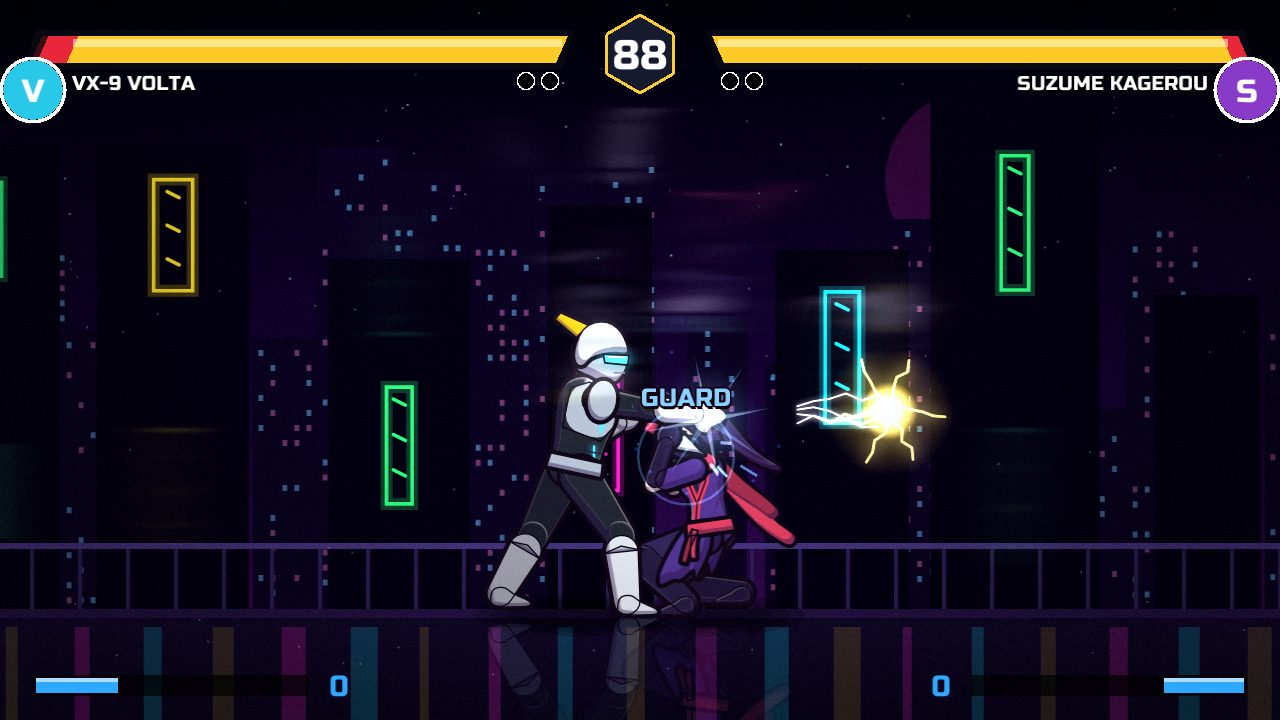
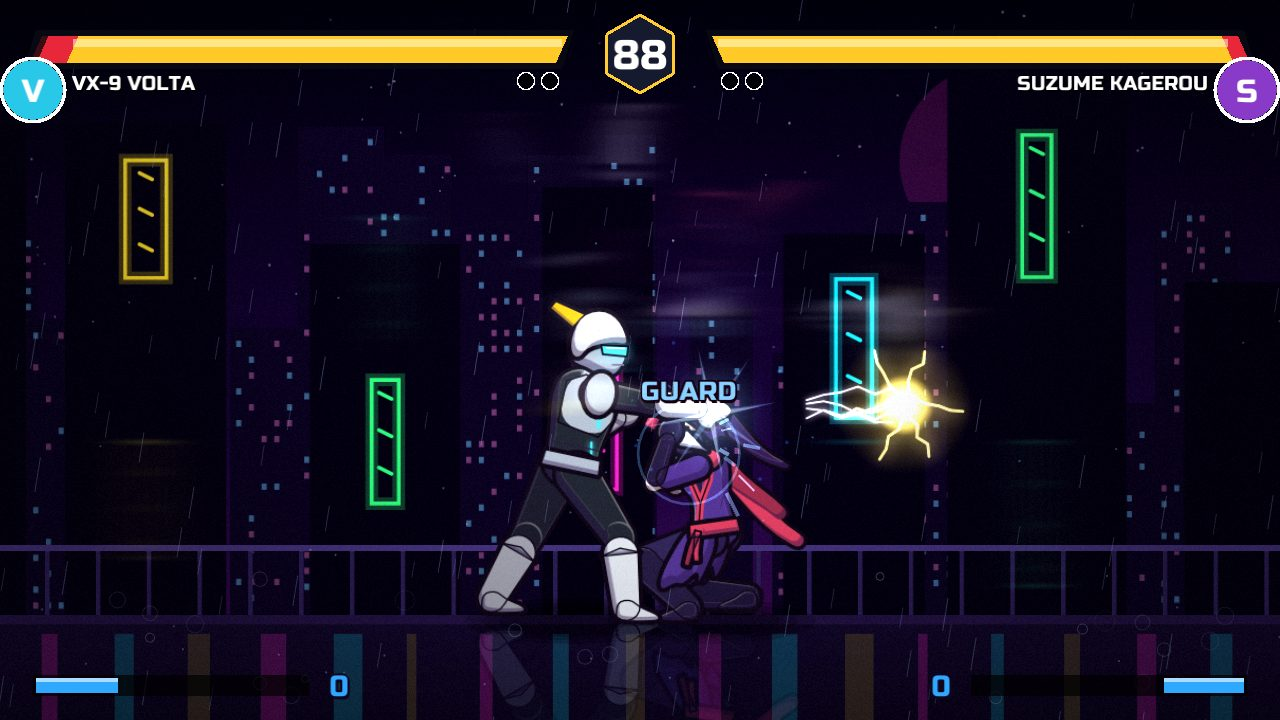
More AAA effects from research: SF6 paint splashes, dynamic impact lighting, anime impact frames, slash lines, distance zoom, per-stage weather, super outline glow
- Splat (colour paint behind the attacker), Light (stage lit by hits), Slash lines, impact-frame inversion in the composite shader
- Dynamic zoom by fighter distance; rain/fireflies/wisps/wind per stage; golden outline on super owner
- docs/AAA_FEATURES.md: sources and research-to-implementation mapping; new screenshots

Claude-Session: https://claude.ai/code/session_01Cn6JQNuQujDi45zt7ta1gL

diff --git a/src/vfx.rs b/src/vfx.rs
@@ -7,9 +7,21 @@ use macroquad::prelude::*;
 use ume_engine::matchs::{Event, Match};
 
 #[derive(Clone, Copy, PartialEq)]
-enum Kind { Spark, Glow, Dust, Debris, Ember }
+enum Kind { Spark, Glow, Dust, Debris, Ember, Slash }
 struct P { k: Kind, x: f32, y: f32, vx: f32, vy: f32, g: f32, life: f32, max: f32, size: f32, col: [f32; 3], rot: f32, vrot: f32 }
 struct Ring { x: f32, y: f32, r0: f32, r1: f32, t: f32, dur: f32, w: f32, col: [f32; 3] }
+/// SF6-style colour paint splash: irregular blob + droplets, spawned *behind the attacker* so the source of the hit reads clearly.
+struct Splat { x: f32, y: f32, dir: f32, t: f32, dur: f32, col: [f32; 3], radii: [f32; 14], drops: [(f32, f32, f32); 7], size: f32 }
+/// Dynamic stage lighting from impacts (Tekken 8: hit effects "light up the stage like fireworks").
+struct Light { x: f32, y: f32, r: f32, t: f32, dur: f32, col: [f32; 3] }
+#[derive(Clone, Copy, PartialEq, Default)]
+pub enum Weather { #[default] None, Rain, Fireflies, Wisps, Wind }
+impl Weather {
+    pub fn for_stage(name: &str) -> Weather {
+        let n = name.to_lowercase();
+        if n.contains("neo-metr") || n.contains("neon") { Weather::Rain } else if n.contains("bambu") { Weather::Fireflies } else if n.contains("espírit") || n.contains("espirit") { Weather::Wisps } else if n.contains("planalto") { Weather::Wind } else { Weather::None }
+    }
+}
 struct Float { x: f32, y: f32, t: f32, text: String, size: f32, col: [f32; 3] }
 pub struct Banner { pub text: String, pub t: f32, pub col: [f32; 3], pub sub: String }
 
@@ -18,9 +30,10 @@ struct Snap { grounded: bool, vy: f32, vx: f32, move_type: char }
 
 /// What the post-processing pass should do this frame.
 #[derive(Clone, Copy, Default)]
-pub struct FxParams { pub chroma: f32, pub vignette: f32, pub bloom: f32, pub saturation: f32, pub flash: f32, pub radial: f32, pub center: [f32; 2], pub tint: [f32; 3] }
+pub struct FxParams { pub invert: f32, pub chroma: f32, pub vignette: f32, pub bloom: f32, pub saturation: f32, pub flash: f32, pub radial: f32, pub center: [f32; 2], pub tint: [f32; 3] }
 
 pub struct Vfx {
+    splats: Vec<Splat>, lights: Vec<Light>, pub weather: Weather, clock: f32, invert_t: f32, dist_zoom: f32, dist_target: f32,
     parts: Vec<P>, rings: Vec<Ring>, floats: Vec<Float>, pub banners: Vec<Banner>,
     pub trauma: f32, punch: f32, ko_t: f32, ko_focus: (f32, f32), pub slow_t: f32,
     chroma: f32, flash: f32, radial: f32, vig: f32, lines: f32, lines_col: [f32; 3], sat_pulse: f32,
@@ -32,7 +45,7 @@ fn lerp(a: f32, b: f32, t: f32) -> f32 { a + (b - a) * t }
 
 impl Vfx {
     pub fn new() -> Self {
-        Vfx { parts: vec![], rings: vec![], floats: vec![], banners: vec![], trauma: 0.0, punch: 0.0, ko_t: 0.0, ko_focus: (0.0, 0.0), slow_t: 0.0, chroma: 0.0, flash: 0.0, radial: 0.0, vig: 0.0, lines: 0.0,
+        Vfx { splats: vec![], lights: vec![], weather: Weather::None, clock: 0.0, invert_t: 0.0, dist_zoom: 0.0, dist_target: 0.0, parts: vec![], rings: vec![], floats: vec![], banners: vec![], trauma: 0.0, punch: 0.0, ko_t: 0.0, ko_focus: (0.0, 0.0), slow_t: 0.0, chroma: 0.0, flash: 0.0, radial: 0.0, vig: 0.0, lines: 0.0,
             lines_col: [1.0, 1.0, 1.0], sat_pulse: 0.0, super_t: 0.0, super_owner: 0, snap: [Snap::default(); 2], pre_mt: [' '; 2], rng: 0x9e37_79b9, tick: 0 }
     }
     fn r(&mut self) -> f32 { let mut x = self.rng; x ^= x << 13; x ^= x >> 17; x ^= x << 5; self.rng = x; x as f32 / 4294967296.0 }
@@ -72,6 +85,23 @@ impl Vfx {
             self.parts.push(P { k: Kind::Debris, x, y, vx, vy, g: 0.22, life, max: life, size: sz, col, rot: 0.0, vrot: vr });
         }
     }
+    fn splat(&mut self, x: f32, y: f32, dir: f32, size: f32, col: [f32; 3]) {
+        let mut radii = [0.0; 14];
+        for (i, r) in radii.iter_mut().enumerate() { *r = if i % 2 == 0 { self.rr(0.75, 1.15) } else { self.rr(0.35, 0.65) }; }
+        let mut drops = [(0.0, 0.0, 0.0); 7];
+        for d in drops.iter_mut() { *d = (self.rr(-1.2, 1.2), self.rr(1.1, 1.9), self.rr(0.04, 0.12)); }
+        self.splats.push(Splat { x, y, dir, t: 0.0, dur: 0.6, col, radii, drops, size });
+    }
+    fn light(&mut self, x: f32, y: f32, r: f32, dur: f32, col: [f32; 3]) { self.lights.push(Light { x, y, r, t: 0.0, dur, col }); }
+    /// Anime "impact frame" (colour inversion for a few ms) — used on super activation and KO.
+    pub fn force_impact(&mut self) { self.invert_t = 0.075; }
+    fn slashes(&mut self, x: f32, y: f32, dir: f32, n: usize, len: f32, col: [f32; 3]) {
+        for i in 0..n {
+            let a = (if dir >= 0.0 { 0.0 } else { std::f32::consts::PI }) + self.rr(-0.9, 0.9) + if i % 2 == 0 { 0.0 } else { 3.14159 };
+            let l = len * self.rr(0.6, 1.2);
+            self.parts.push(P { k: Kind::Slash, x, y, vx: 0.0, vy: 0.0, g: 0.0, life: 0.13, max: 0.13, size: l, col, rot: a, vrot: 0.0 });
+        }
+    }
     fn ring(&mut self, x: f32, y: f32, r1: f32, dur: f32, w: f32, col: [f32; 3]) { self.rings.push(Ring { x, y, r0: 2.0, r1, t: 0.0, dur, w, col }); }
     fn glow(&mut self, x: f32, y: f32, size: f32, life: f32, col: [f32; 3]) { self.parts.push(P { k: Kind::Glow, x, y, vx: 0.0, vy: 0.0, g: 0.0, life, max: life, size, col, rot: 0.0, vrot: 0.0 }); }
     fn float(&mut self, x: f32, y: f32, text: String, size: f32, col: [f32; 3]) { self.floats.push(Float { x, y, t: 0.0, text, size, col }); }
@@ -107,6 +137,8 @@ impl Vfx {
                 self.spark_burst(x, y, dir, n, 3.0 + mag * 4.5, [1.0, 0.62, 0.15], 1.0);
                 self.spark_burst(x, y, dir, 4, 5.5, [1.0, 1.0, 0.9], 0.4);
                 self.glow(x, y, 16.0 + mag * 14.0, 0.14, [1.0, 0.75, 0.35]);
+                self.slashes(x, y, dir, 3 + (mag * 3.0) as usize, 22.0 + mag * 16.0, [1.0, 0.95, 0.8]);
+                self.light(x, y - 6.0, 70.0 + mag * 70.0, 0.2, [1.0, 0.7, 0.35]);
                 self.ring(x, y, 20.0 + mag * 26.0, 0.28, 1.8, [1.0, 0.85, 0.5]);
                 self.trauma = (self.trauma + 0.16 + mag * 0.22).min(1.0);
                 self.punch = self.punch.max(0.012 + mag * 0.018);
@@ -115,6 +147,9 @@ impl Vfx {
                     self.ring(x, y, 52.0, 0.4, 2.6, [1.0, 1.0, 1.0]);
                     self.debris(x, y + 10.0, 8, [0.8, 0.72, 0.6]);
                     self.lines = 1.0; self.lines_col = [1.0, 0.95, 0.8];
+                    // SF6-style colour paint, built behind the attacker so the source of the hit is readable
+                    let (ax, scol) = (m.roots().nth(*attacker_side).map(|a| a.pos.x).unwrap_or(x - dir * 30.0), if *attacker_side == 0 { [0.13, 0.78, 1.0] } else { [1.0, 0.25, 0.55] });
+                    self.splat(ax - dir * 6.0, y + 6.0, dir, 34.0 + mag * 22.0, scol);
                     self.flash = self.flash.max(0.18);
                     self.punch = self.punch.max(0.04);
                 }
@@ -132,6 +167,8 @@ impl Vfx {
                 }
                 self.flash = self.flash.max(0.55); self.chroma = self.chroma.max(1.0); self.radial = 1.0; self.trauma = (self.trauma + 0.4).min(1.0);
                 self.lines = 1.4; self.lines_col = [1.0, 0.85, 0.4];
+                self.invert_t = 0.075;
+                if let Some((x, y, f)) = Self::chest(m, *side) { self.splat(x - f * 10.0, y + 8.0, f, 80.0, if *side == 0 { [0.13, 0.78, 1.0] } else { [1.0, 0.25, 0.55] }); self.light(x, y, 190.0, 0.45, [1.0, 0.85, 0.45]); }
                 self.banner("SUPER ARTS", "", [1.0, 0.82, 0.3]);
             }
             Event::Ko { loser_side } => {
@@ -141,10 +178,11 @@ impl Vfx {
                     self.ring(x, y, 130.0, 0.9, 4.0, [1.0, 0.25, 0.3]);
                     self.ring(x, y, 80.0, 0.6, 2.5, [1.0, 1.0, 1.0]);
                     self.glow(x, y, 60.0, 0.5, [1.0, 0.3, 0.3]);
+                    self.light(x, y, 220.0, 0.6, [1.0, 0.3, 0.3]);
                     self.spark_burst(x, y, 1.0, 26, 8.0, [1.0, 0.4, 0.3], 3.14);
                     self.debris(x, y + 12.0, 14, [0.7, 0.6, 0.55]);
                 }
-                self.flash = 0.9; self.chroma = 1.0; self.radial = 1.0; self.trauma = 1.0; self.vig = 1.0; self.lines = 1.6; self.lines_col = [1.0, 0.35, 0.3];
+                self.invert_t = 0.075; self.flash = 0.9; self.chroma = 1.0; self.radial = 1.0; self.trauma = 1.0; self.vig = 1.0; self.lines = 1.6; self.lines_col = [1.0, 0.35, 0.3];
                 let w = 1 - loser_side;
                 if m.roots().nth(w).is_some_and(|f| f.life >= f.life_max - 0.5) { self.banner("PERFECT!", "vitória sem sofrer dano", [1.0, 0.85, 0.2]); }
             }
@@ -157,6 +195,7 @@ impl Vfx {
     /// Per simulation tick: landing / run dust, super aura.
     pub fn tick(&mut self, m: &Match) {
         self.tick = self.tick.wrapping_add(1);
+        { let mut it = m.roots().take(2); if let (Some(a), Some(b)) = (it.next(), it.next()) { let d = (a.pos.x - b.pos.x).abs(); self.dist_target = ((260.0 - d) / 260.0).clamp(0.0, 1.0) * 0.07; } }
         for (side, f) in m.roots().enumerate().take(2) {
             let now = Snap { grounded: f.state_type != 'A', vy: f.vel.y, vx: f.vel.x, move_type: f.move_type };
             let prev = self.snap[side];
@@ -192,6 +231,13 @@ impl Vfx {
             if p.k == Kind::Dust { p.vx *= 0.94f32.powf(k); p.size += 0.05 * k; }
         }
         self.parts.retain(|p| p.life > 0.0);
+        self.clock += dt;
+        self.invert_t = (self.invert_t - dt).max(0.0);
+        self.dist_zoom += (self.dist_target - self.dist_zoom) * (3.0 * dt).min(1.0);
+        for sp in &mut self.splats { sp.t += dt; }
+        self.splats.retain(|s| s.t < s.dur);
+        for l in &mut self.lights { l.t += dt; }
+        self.lights.retain(|l| l.t < l.dur);
         for r in &mut self.rings { r.t += dt; }
         self.rings.retain(|r| r.t < r.dur);
         for f in &mut self.floats { f.t += dt; f.y -= 0.35 * k * (1.0 - (f.t / 0.9).min(1.0)); }
@@ -220,7 +266,7 @@ impl Vfx {
         };
         let ko = if self.ko_t > 0.0 { let e = (self.ko_t.min(1.0)).powf(0.6); e * 0.28 } else { 0.0 };
         let sup = self.super_t * 0.07;
-        let z = 1.0 + (self.punch + ko + sup) * gain;
+        let z = 1.0 + (self.punch + ko + sup + self.dist_zoom) * gain;
         let focus = if self.ko_t > 0.0 { let e = self.ko_t.min(1.0); (lerp(mid.0, self.ko_focus.0, e), lerp(mid.1, self.ko_focus.1, e)) } else { mid };
         (z, focus)
     }
@@ -233,6 +279,7 @@ impl Vfx {
 
     pub fn params(&self, gain: f32, focus_screen: (f32, f32), bloom: f32) -> FxParams {
         FxParams {
+            invert: if self.invert_t > 0.0 { gain.min(1.0) } else { 0.0 },
             chroma: (self.chroma * gain).min(1.5),
             vignette: 0.32 + self.vig * 0.45 * gain + self.super_t * 0.25 * gain,
             bloom: bloom * (0.55 + self.flash * 0.6 * gain),
@@ -241,6 +288,81 @@ impl Vfx {
             radial: (self.radial * 0.9 + self.super_t * 0.45) * gain,
             center: [focus_screen.0, focus_screen.1],
             tint: [1.0 + self.super_t * 0.05, 1.0 + self.super_t * 0.02 - self.sat_pulse * 0.04, 1.0 - self.sat_pulse * 0.08],
+        }
+    }
+
+    /// Behind the fighters: colour paint splashes.
+    pub fn draw_back(&self, g: &Gfx, m: &Match, shx: f32, shy: f32) {
+        let s = g.view_scale;
+        let tp = |x: f32, y: f32| vec2(g.ox + (x - m.camera.x + m.view_w / 2.0 + shx) * s, g.oy + (y - m.camera.y + m.stage.zoffset + shy) * s);
+        for sp in &self.splats {
+            let t = sp.t / sp.dur;
+            let e = 1.0 - (1.0 - (t * 3.0).min(1.0)).powi(3);
+            let a = if t < 0.55 { 1.0 } else { 1.0 - (t - 0.55) / 0.45 };
+            let c = tp(sp.x + sp.dir * sp.size * 0.35 * e, sp.y);
+            let n = sp.radii.len();
+            let pt = |i: usize, k: f32| { let ang = i as f32 / n as f32 * 6.2832 + if sp.dir < 0.0 { 3.14159 } else { 0.0 }; let stretch = 1.0 + 0.7 * ang.cos().max(0.0); vec2(c.x + ang.cos() * sp.radii[i % n] * sp.size * e * k * stretch * s, c.y + ang.sin() * sp.radii[i % n] * sp.size * e * k * 0.8 * s) };
+            for (k, col) in [(1.12, Color::new(0.06, 0.02, 0.12, 0.85 * a)), (1.0, Color::new(sp.col[0], sp.col[1], sp.col[2], 0.8 * a)), (0.55, Color::new(lerp(sp.col[0], 1.0, 0.55), lerp(sp.col[1], 1.0, 0.55), lerp(sp.col[2], 1.0, 0.55), 0.6 * a))] {
+                for i in 0..n { draw_triangle(c, pt(i, k), pt((i + 1) % n, k), col); }
+            }
+            for (ang, dist, rs) in sp.drops.iter() {
+                let a2 = ang + if sp.dir < 0.0 { 3.14159 } else { 0.0 };
+                let p = vec2(c.x + a2.cos() * dist * sp.size * e * s * 1.2, c.y + a2.sin() * dist * sp.size * e * s * 0.9);
+                draw_circle(p.x, p.y, rs * sp.size * s * 0.5 * e.min(1.0), Color::new(sp.col[0], sp.col[1], sp.col[2], 0.85 * a));
+            }
+        }
+    }
+
+    /// Screen-space ambient weather per stage: rain, fireflies, spirit wisps, wind streaks.
+    pub fn draw_weather(&self, gain: f32) {
+        if self.weather == Weather::None || gain <= 0.0 { return; }
+        let (w, h) = (screen_width(), screen_height());
+        let u = h / 720.0;
+        let t = self.clock;
+        let hash = |i: f32, k: f32| ((i * 12.9898 + k * 78.233).sin() * 43758.5453).fract().abs();
+        match self.weather {
+            Weather::Rain => {
+                gl_use_default_material();
+                for i in 0..170 {
+                    let f = i as f32;
+                    let (hx, hy, hs) = (hash(f, 1.0), hash(f, 2.0), hash(f, 3.0));
+                    let sp = (900.0 + hs * 500.0) * u;
+                    let len = (14.0 + hs * 22.0) * u;
+                    let y = (hy * h + t * sp) % (h + len) - len;
+                    let x = (hx * (w + 200.0) - t * 140.0 * u).rem_euclid(w + 200.0) - 100.0 + (y / h) * 90.0 * u;
+                    draw_line(x, y, x - len * 0.16, y + len, (1.0 * u).max(1.0), Color::new(0.7, 0.85, 1.0, 0.16 + hs * 0.14));
+                }
+                // ground splashes
+                for i in 0..22 {
+                    let f = i as f32 + 300.0;
+                    let ph = (t * (1.2 + hash(f, 4.0)) + hash(f, 5.0)).fract();
+                    let x = hash(f, 6.0) * w; let y = h * (0.80 + hash(f, 7.0) * 0.17);
+                    draw_circle_lines(x, y, (2.0 + ph * 9.0) * u, (1.0 * u).max(1.0), Color::new(0.75, 0.9, 1.0, (1.0 - ph) * 0.35));
+                }
+            }
+            Weather::Fireflies | Weather::Wisps => {
+                let col = if self.weather == Weather::Fireflies { (0.85, 1.0, 0.4) } else { (0.45, 0.95, 0.9) };
+                gl_use_default_material();
+                for i in 0..26 {
+                    let f = i as f32;
+                    let (hx, hy, hs) = (hash(f, 8.0), hash(f, 9.0), hash(f, 10.0));
+                    let x = hx * w + (t * (0.3 + hs) + f).sin() * 40.0 * u;
+                    let y = if self.weather == Weather::Wisps { h - ((hy * h + t * (18.0 + hs * 26.0) * u) % h) } else { hy * h * 0.8 + h * 0.1 + (t * (0.4 + hs * 0.5) + f * 1.7).cos() * 30.0 * u };
+                    let blink = 0.5 + 0.5 * (t * (1.5 + hs * 2.5) + f * 2.3).sin();
+                    for k in 0..4 { draw_circle(x, y, (6.0 - k as f32 * 1.4) * u * (0.8 + hs * 0.6), Color::new(col.0, col.1, col.2, 0.05 * blink + 0.06 * k as f32 * blink)); }
+                }
+            }
+            Weather::Wind => {
+                for i in 0..24 {
+                    let f = i as f32;
+                    let (hy, hs) = (hash(f, 11.0), hash(f, 12.0));
+                    let len = (60.0 + hs * 140.0) * u;
+                    let x = ((hash(f, 13.0) * (w + 400.0)) + t * (260.0 + hs * 360.0) * u) % (w + 400.0) - 200.0;
+                    let y = hy * h * 0.85 + (t * 0.8 + f).sin() * 6.0 * u;
+                    draw_line(x, y, x - len, y + len * 0.05, (1.0 * u).max(1.0), Color::new(1.0, 0.95, 0.85, 0.08 + hs * 0.08));
+                }
+            }
+            Weather::None => {}
         }
     }
 
@@ -267,6 +389,21 @@ impl Vfx {
                 Kind::Ember => draw_circle(c.x, c.y, p.size * s * (0.6 + 0.4 * a), Color::new(p.col[0], p.col[1], p.col[2], a * 0.9)),
                 _ => { for i in 0..6 { let t = i as f32 / 6.0; draw_circle(c.x, c.y, p.size * s * (1.0 - t * 0.85), Color::new(p.col[0], p.col[1], p.col[2], a * 0.11)); } }
             }
+        }
+        for p in self.parts.iter().filter(|p| p.k == Kind::Slash) {
+            let a = (p.life / p.max).clamp(0.0, 1.0);
+            let c = tp(p.x, p.y);
+            let (sn, cs) = p.rot.sin_cos();
+            let l = p.size * s * (1.3 - 0.3 * a);
+            let w = (1.4 * a + 0.3) * s;
+            let tip = vec2(c.x + cs * l, c.y + sn * l);
+            let (nx, ny) = (-sn * w, cs * w);
+            draw_triangle(vec2(c.x + nx, c.y + ny), vec2(c.x - nx, c.y - ny), tip, Color::new(p.col[0], p.col[1], p.col[2], a));
+        }
+        for l in &self.lights {
+            let t = l.t / l.dur; let a = (1.0 - t).powi(2);
+            let c = tp(l.x, l.y);
+            for i in 0..9 { let k = 1.0 - i as f32 / 9.0; draw_circle(c.x, c.y, l.r * s * k, Color::new(l.col[0], l.col[1], l.col[2], 0.032 * a)); }
         }
         for r in &self.rings {
             let t = r.t / r.dur; let e = 1.0 - (1.0 - t).powi(3);

diff --git a/src/render.rs b/src/render.rs
@@ -108,6 +108,7 @@ impl MatchRenderer {
         let s = g.view_scale;
         self.draw_stage(g, m, stage, false, shx, shy);
         if m.pause.as_ref().is_some_and(|p| p.darken) { draw_rectangle(g.ox, g.oy, m.view_w * s, m.view_h * s, Color::new(0.0, 0.0, 0.04, 0.62)); }
+        if gain > 0.0 { vfx.draw_back(g, m, shx, shy); }
         // soft contact shadows (3 layered ellipses)
         for f in &m.fighters {
             if f.destroyed || (f.is_helper && !f.helper_player) || f.has_assert(ume_engine::fighter::asf::INVISIBLE) { continue; }
@@ -149,7 +150,7 @@ impl MatchRenderer {
         g.view_scale = s0; g.ox = ox0; g.oy = oy0;
         let s = g.view_scale;
         let focus_screen = (ox0 + fvx * s0, oy0 + fvy * s0);
-        if gain > 0.0 { vfx.draw_lines(focus_screen, gain); }
+        if gain > 0.0 { vfx.draw_weather(gain); vfx.draw_lines(focus_screen, gain); }
         if let Some((t, c)) = m.flash { draw_rectangle(g.ox, g.oy, m.view_w * s, m.view_h * s, Color::new(c[0] / 255.0, c[1] / 255.0, c[2] / 255.0, (t as f32 / 10.0).min(0.85))); }
         // letterbox bars
         let (w, h) = (screen_width(), screen_height());
@@ -188,6 +189,13 @@ impl MatchRenderer {
             if p.add.iter().sum::<f32>() > 200.0 { o.flash = 0.6; } else if p.add[0] > p.add[2] + 40.0 { o.tint = Color::new(1.0, 0.7, 0.6, 1.0); } else if p.add[2] > p.add[0] + 40.0 { o.tint = Color::new(0.6, 0.8, 1.0, 1.0); }
         }
         if let Some((mode, a, _)) = &f.trans { if mode.starts_with("add") { o.add = true; o.alpha = a / 256.0; } }
+        // owner of an active super: pulsing golden outline glow (sprite re-drawn additively around itself)
+        if m.pause.as_ref().is_some_and(|p| p.is_super && (p.by == f.id || p.by == f.root)) {
+            let pulse = 0.55 + 0.35 * (m.game_time as f32 * 0.35).sin();
+            for (dx, dy) in [(-1.6, 0.0), (1.6, 0.0), (0.0, -1.6), (0.0, 1.6), (-1.2, -1.2), (1.2, 1.2), (-1.2, 1.2), (1.2, -1.2)] {
+                Self::draw_sprite(g, m, &f.anim_def, fr, x + dx, f.pos.y + dy, f.facing, f.lscl, f.draw_scale, &DrawOpts { add: true, alpha: pulse * 0.28, tint: Color::new(1.0, 0.8, 0.3, 1.0), ..Default::default() }, shx, shy);
+            }
+        }
         Self::draw_sprite(g, m, &f.anim_def, fr, x, f.pos.y, f.facing, f.lscl, f.draw_scale, &o, shx, shy);
     }
 

diff --git a/src/shots.rs b/src/shots.rs
@@ -29,7 +29,7 @@ async fn fight(app: &mut App, dir: &str, name: &str, p1: &str, p2: &str, st: &st
     let s = session.as_mut().unwrap();
     for _ in 0..ticks { s.step_visual(c, audio); }
     match want {
-        "super" => {
+        "super" | "impact" => {
             for f in s.m.fighters.iter_mut() { f.power = 3000.0; }
             for _ in 0..600 { if s.m.fighters[0].ctrl && s.m.fighters[0].state_no == 0 { break; } s.step_visual(c, audio); }
             let d = s.m.fighters[0].def.clone();
@@ -38,6 +38,7 @@ async fn fight(app: &mut App, dir: &str, name: &str, p1: &str, p2: &str, st: &st
             for _ in 0..1500 { s.step_visual(c, audio); if s.m.pause.as_ref().is_some_and(|p| p.is_super && p.time < 24) { ok = true; break; } }
             if ok { for _ in 0..16 { s.step_visual(c, audio); } }
             println!("{name}: super caught = {ok}");
+            if want == "impact" { s.vfx.force_impact(); }
         }
         "hit" => { for _ in 0..1200 { s.step_visual(c, audio); if !s.m.explods.is_empty() && s.m.fighters.iter().any(|f| f.move_type == 'H' && f.hit_shake > 2 && !f.ghv.guarded) { break; } } }
         "proj" => { for _ in 0..1500 { s.step_visual(c, audio); if s.m.projectiles.iter().any(|p| !p.dying && p.time > 8) { break; } } }
@@ -75,6 +76,8 @@ pub async fn run(app: &mut App, dir: &str) {
     fight(app, dir, "09-fight-bamboo", "lian", "sylene", "bamboo", 400, "proj").await;
     fight(app, dir, "10-fight-volcano", "garan", "marlow", "volcano", 500, "hit").await;
     fight(app, dir, "20-fx-ko", "daichi", "valdric", "dojo", 200, "ko").await;
+    fight(app, dir, "23-impact-frame", "akio", "bruno", "spirit", 120, "impact").await;
+    fight(app, dir, "24-paint-splash", "kaito", "garan", "plains", 240, "hit").await;
     fight(app, dir, "21-fx-neon-hit", "volta", "kaito", "neon", 200, "hit").await;
     fight(app, dir, "11-hitboxes", "shion", "kaito", "plains", 200, "boxes").await;
     fight(app, dir, "11b-fight-kaname-valdric", "kaname", "valdric", "spirit", 300, "hit").await;

diff --git a/src/postfx.rs b/src/postfx.rs
@@ -37,6 +37,7 @@ uniform vec4 P0; // chroma, vignette, bloom, grain
 uniform vec4 P1; // saturation, contrast, flash, time
 uniform vec4 P2; // radial, cx, cy, aspect
 uniform vec4 P3; // tint rgb, bloom flip
+uniform vec4 P4; // invert (anime impact frame)
 float hash(vec2 p) { return fract(sin(dot(p, vec2(12.9898, 78.233))) * 43758.5453); }
 void main() {
   vec2 c = uv - P2.yz;
@@ -63,6 +64,7 @@ void main() {
   col *= P3.xyz;
   col *= 1.0 - smoothstep(0.30, 0.95, r) * P0.y;
   col += vec3(P1.z);
+  if (P4.x > 0.5) { float l2 = dot(col, vec3(0.299, 0.587, 0.114)); col = mix(vec3(1.0) - col, vec3(smoothstep(0.35, 0.65, 1.0 - l2)), 0.55); }
   col += (hash(uv * 1024.0 + P1.w) - 0.5) * P0.w;
   gl_FragColor = vec4(col, 1.0);
 }";
@@ -90,7 +92,7 @@ impl PostFx {
             scene: None, half: None, size: (0, 0),
             bright: mat(BRIGHT, vec![], vec![]),
             blur: mat(BLUR, vec![("Dir", UniformType::Float2)], vec![]),
-            comp: mat(COMPOSITE, vec![("P0", UniformType::Float4), ("P1", UniformType::Float4), ("P2", UniformType::Float4), ("P3", UniformType::Float4)], vec!["Bloom"]),
+            comp: mat(COMPOSITE, vec![("P0", UniformType::Float4), ("P1", UniformType::Float4), ("P2", UniformType::Float4), ("P3", UniformType::Float4), ("P4", UniformType::Float4)], vec!["Bloom"]),
             level: 2, active: false,
         }
     }
@@ -155,6 +157,7 @@ impl PostFx {
         self.comp.set_uniform("P1", vec4(p.saturation, 1.07, p.flash, (t * 60.0).floor() % 97.0));
         self.comp.set_uniform("P2", vec4(p.radial, p.center[0], p.center[1], w / h));
         self.comp.set_uniform("P3", vec4(p.tint[0], p.tint[1], p.tint[2], BLOOM_FLIP));
+        self.comp.set_uniform("P4", vec4(p.invert, 0.0, 0.0, 0.0));
         gl_use_material(&self.comp);
         draw_texture_ex(&scene.texture, 0.0, 0.0, WHITE, DrawTextureParams { dest_size: Some(vec2(w, h)), flip_y: SCENE_FLIP, ..Default::default() });
         gl_use_default_material();

diff --git a/src/session.rs b/src/session.rs
@@ -43,7 +43,9 @@ impl Session {
         m.add_player(p2, 1, lv(&pilots[1]), if same { 2 } else { 1 });
         m.start_round();
         let r = MatchRenderer::new(&stage);
-        Session { m, stage, r, hud: Hud::new(), vfx: Vfx::new(), pilots, duo, paused: false, acc: 0.0, over: None, over_timer: 0.0 }
+        let mut vfx = Vfx::new();
+        vfx.weather = crate::vfx::Weather::for_stage(&stage.info.name);
+        Session { m, stage, r, hud: Hud::new(), vfx, pilots, duo, paused: false, acc: 0.0, over: None, over_timer: 0.0 }
     }
 
     fn mugen_macro(facing: f32, which: u32) -> Vec<u32> {

diff --git a/docs/AAA_FEATURES.md b/docs/AAA_FEATURES.md
@@ -1,5 +1,14 @@
 # Referências AAA → o que foi implementado
 
+## Fontes pesquisadas
+Achados de busca na web (os sites primários de Capcom/Epic/GDC ficam fora da rede liberada desta sessão, então os trechos abaixo vêm dos resumos das buscas, não das páginas completas):
+- **Street Fighter 6 — coluna oficial "The Secrets of Drive Impact"** ([streetfighter.com](https://www.streetfighter.com/6/en-us/column/detail/effects02)) e entrevistas ([EventHubs](https://www.eventhubs.com/news/2022/jul/09/sf6-influence-hip-hop-graffiti/), [Rolling Stone](https://www.rollingstone.com/culture/rs-gaming/street-fighter-6-what-we-learned-1234746230/)): efeitos em **estilo grafite/tinta colorida** (o SF4 usava tinta preto e branco), o efeito do Drive Impact **nasce atrás do atacante** para a origem do golpe ser legível, e efeitos realistas foram evitados para não competir com os personagens nem sobrecarregar a tela → *splash de tinta atrás do atacante*, cor por jogador.
+- **Tekken 8** ([Gameshub](https://www.gameshub.com/news/features/tekken-8-preview-gameplay-harada-interview-2611153/), [Gameranx](https://gameranx.com/updates/id/416856/article/tekken-8-details-revealed-with-new-rage-art-and-battle-heat-system/), [Fighters Generation](https://www.fightersgeneration.com/news1/tekken8-sep22-2.htm)): ao ativar Heat/Rage Art *a tela escurece, a câmera faz algo dramático* e o áudio ganha graves; a iluminação dinâmica dos efeitos de golpe **ilumina o cenário "como fogos de artifício"**; chuva e efeitos de clima escorrem pelos modelos; Harada comenta o "custo" de manter a legibilidade com efeitos vistosos → *luzes dinâmicas por impacto, vinheta/escurecimento no super, clima por cenário, opção de efeitos reduzidos*.
+- **Guilty Gear -Strive-** ([entrevista Unreal Engine](https://www.unrealengine.com/en-US/developer-interviews/how-guilty-gear--strive--hits-an-ultra-combo-with-groundbreaking-visuals-and-gameplay), [Play UK](https://www.pressreader.com/australia/play-uk-1/20210504/285233080690459)): visual 2D/3D híbrido que imita animação desenhada à mão; **câmera se move mesmo com o jogador no controle** (equilíbrio difícil com a visibilidade); colaboração entre times 2D/efeitos/fundos → *zoom dinâmico por distância, quadros de impacto estilo anime*.
+- **Guias de game feel** ([Wayline](https://www.wayline.io/learn/game-feel/1), [Mega Cat Juice Guide](https://megacatstudios.com/blogs/game-development/mega-cat-developer-juice-guide-v1-0-08-23-17), [post sobre trauma²](https://dev.to/saltmire/godot-4-screen-shake-and-hit-stop-in-one-script-11eh), [Uhiyama Lab](https://uhiyama-lab.com/en/notes/unity/unity-game-feel-hit-feedback/)): 5–8 micro-respostas em ~100 ms, hit-stop de 0,05–0,1 s, tremor trauma², *feedback separado da lógica* e opções de acessibilidade.
+
+## Princípios → implementação
+
 Pesquisa sobre o "game feel" dos jogos de luta atuais (Street Fighter 6, Tekken 8, Guilty Gear -Strive-, Mortal Kombat, Smash) e guias de *juice*/*hit-stop*. Princípios aplicados:
 
 | Princípio (fonte/prática) | Implementação |
@@ -14,6 +23,13 @@ Pesquisa sobre o "game feel" dos jogos de luta atuais (Street Fighter 6, Tekken 
 | **Feedback de combate legível**: contra-ataque, guarda, perfeito | banners "COUNTER!" (acertar quem estava atacando), "PERFECT!", rótulo "GUARD" azul |
 | **HUD vivo**: alarme de vida baixa, medidor MAX, timer urgente, combo com *pop* | barras com pulso vermelho < 25 %, medidor com brilho/“MAX”, timer vermelho e pulsante nos últimos 10 s, contador de hits que “estoura” e esquenta de cor |
 | **UI com transições** | wipe diagonal entre telas, itens do menu entram escalonados, seleção pulsante, partículas e feixes de luz no fundo, linhas de velocidade na tela de VS, brasas na vitória |
+| **Tinta/grafite colorida atrás do atacante** (SF6) | `Splat`: mancha irregular + gotas com contorno escuro, cor do jogador (ciano P1 / magenta P2), nasce na posição do atacante em golpes pesados e supers |
+| **Luz dinâmica de impacto** (Tekken 8 "fogos de artifício") | `Light`: halo aditivo grande e suave que ilumina cenário e lutadores a cada golpe, maior em super/KO |
+| **Quadro de impacto anime** (Strive/anime) | inversão de cores por ~75 ms no início do super e no KO (`P4.invert` no shader de composição) |
+| **Câmera viva mesmo com controle** (Strive) | zoom dinâmico: aproxima conforme os lutadores se aproximam (até +7 %), suavizado |
+| **Linhas de corte anime** | `Slash`: lâminas finas radiais no ponto de impacto |
+| **Clima por cenário** (Tekken 8: chuva) | chuva com respingos no chão (Neo-Metrópole), vaga-lumes (Bambuzal), espíritos (Portão), vento (Planalto) |
+| **Super em destaque** | contorno dourado pulsante no lutador que ativa o super (sprite redesenhado aditivamente) |
 | **Acessibilidade**: opção para reduzir flashes/tremor | Vídeo → *Efeitos de impacto*: Reduzido (40 %) · Normal · Intenso; *Pós-processamento* Desligado/Médio/Alto |
 
 Tudo é **apenas apresentação**: a simulação determinística (60 Hz) não muda — só o ritmo em tempo real (câmera lenta) e a câmera visual.
